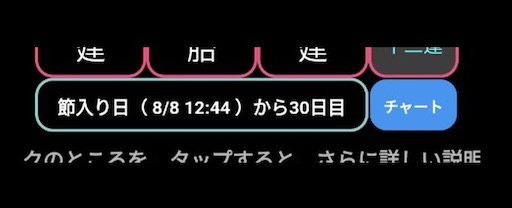
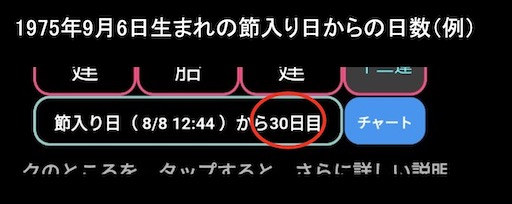
4.4.6 2023.10.03 03:42 通変星解説ページ・蔵干の算出

diff --git a/lib/tuuhenbosi/tuhen_kaisetu.dart b/lib/tuuhenbosi/tuhen_kaisetu.dart
@@ -52,12 +52,12 @@ class TuhenKaisetu extends StatelessWidget {
       'images/0.jpg', //44
       'images/tuuhenbosi/通変星蔵干3.jpg', //45
       'images/0.jpg', //46
-      'images/tuuhenbosi/通変星蔵干4.jpg', //47
-      'images/tuuhenbosi/通変星蔵干5.jpg', //48
-      'images/tuuhenbosi/通変星蔵干6.jpg', //49
-      'images/0.jpg', //50
+      'images/tuuhenbosi/通変星蔵干5.jpg', //47
+      'images/tuuhenbosi/通変星蔵干8.jpg', //48
+      'images/tuuhenbosi/通変星蔵干4.jpg', //49
+      'images/tuuhenbosi/通変星蔵干6.jpg', //50
       'images/0.jpg', //51
-      'images/0.jpg', //52
+      'images/tuuhenbosi/通変星蔵干7.jpg', //52
       'images/0.jpg', //53
       'images/0.jpg', //54
       'images/0.jpg', //55
@@ -185,12 +185,12 @@ class TuhenKaisetu extends StatelessWidget {
       0, //44
       200, //45
       0, //46
-      160, //47
-      440, //48
-      440, //49
-      0, //50
+      440, //47
+      230, //48
+      140, //49
+      430, //50
       0, //51
-      0, //52
+      300, //52
       0, //53
       0, //54
       0, //55
@@ -347,18 +347,17 @@ class TuhenKaisetu extends StatelessWidget {
       '　一方、卯・申・卯は、地にあるので、地にある十二支ということで、地支と呼びます。'
           '地支は、さらに地下に掘り進んでみないと、どんな十干が現れてくるかわからないところがあります。'
           'なので掘り進んでそこに潜んでいる十干を見つける作業、蔵干という作業をします。'
-          '', //46
-      '　ところで、命式表の下の方を見ると、この例でいうと、上の図に示すように、'
-          '節入り日から30日目と表示されています。日の柱、卯を30日掘っていきます。'
-          '掘っていってそこにある十干が、日の柱の蔵干になります。'
-          '同じように、月の柱、申も30日掘っていき、そこにある十干を見つけますし、'
-          '年の柱、卯も30日掘っていき、そこにある十干を見つけます。'
-          'その時使う表が「蔵干表」です。', //47
-      '　', //48
-      '　', //49
-      '　', //50
-      '　', //51
-      '　', //50
+          'このとき使う表が、蔵干表です。正式名称は、月律分野蔵干深浅表ですが、'
+          'この名称は覚える必要ありません。', //46
+      '　具体的に、1975年9月6日生まれの人を例にして、蔵干を算出してみましょう。'
+          '地支は、下の図のように、日の柱が卯、月の柱が申、年の柱が卯です。', //47
+      '　一方、節入り日からの日数は、下図のように、30日になっています。', //48
+      '　そこで、蔵干表で、日の柱の「卯」の行を右へ30日堀り進みます。'
+          'すると「乙」を得ます。これが日の柱の蔵干になります。', //49
+      '　同様に、月の柱の「申」の行を右へ30日掘り進むと、蔵干「庚」を得ます。'
+          '年の柱の「卯」は日の柱と同じなので蔵干「乙」を得ます。', //50
+      '　得られた蔵干を、カルテの蔵干の欄に記入します。', //51
+      '　アプリ内にこの蔵干表を持っているので、上記の計算をして、表示しています。', //52
       '　', //53
       '　', //54
       '　', //55

diff --git a/lib/main.dart b/lib/main.dart
@@ -265,7 +265,7 @@ class _MyHomePageState extends State<MyHomePage> {
       child: Scaffold(
         backgroundColor: Colors.black,
         appBar: AppBar(
-          title: const Text('天運三柱推命 ver.4.4.5',
+          title: const Text('天運三柱推命 ver.4.4.6',
               style: TextStyle(
                 color: Colors.pinkAccent,
                 fontWeight: FontWeight.bold,
